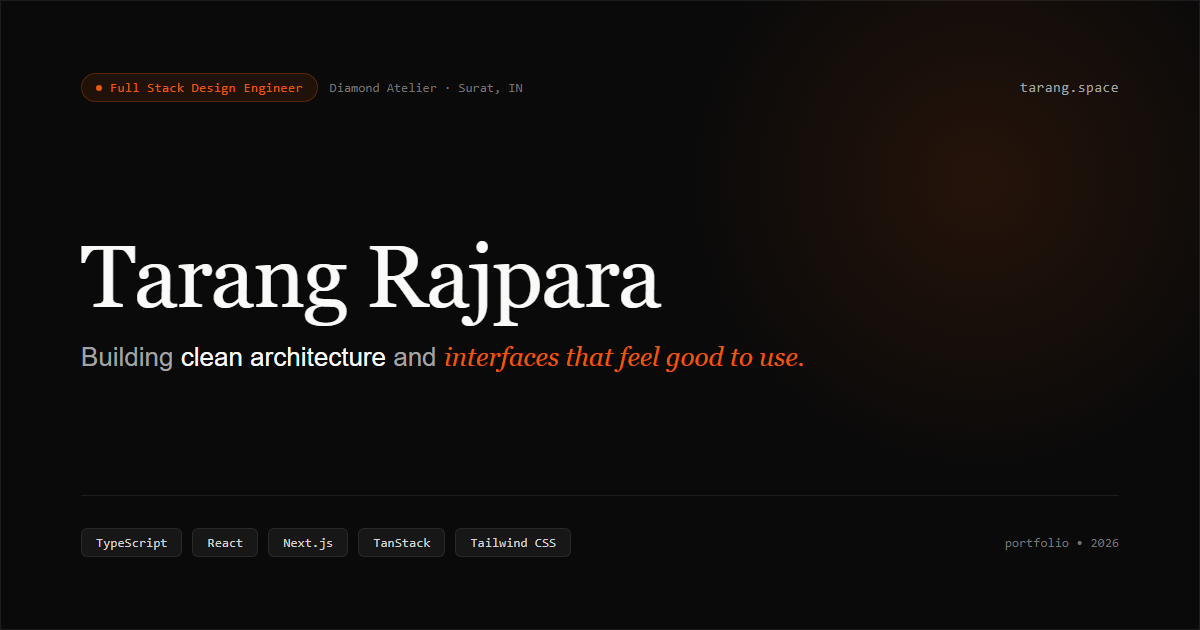
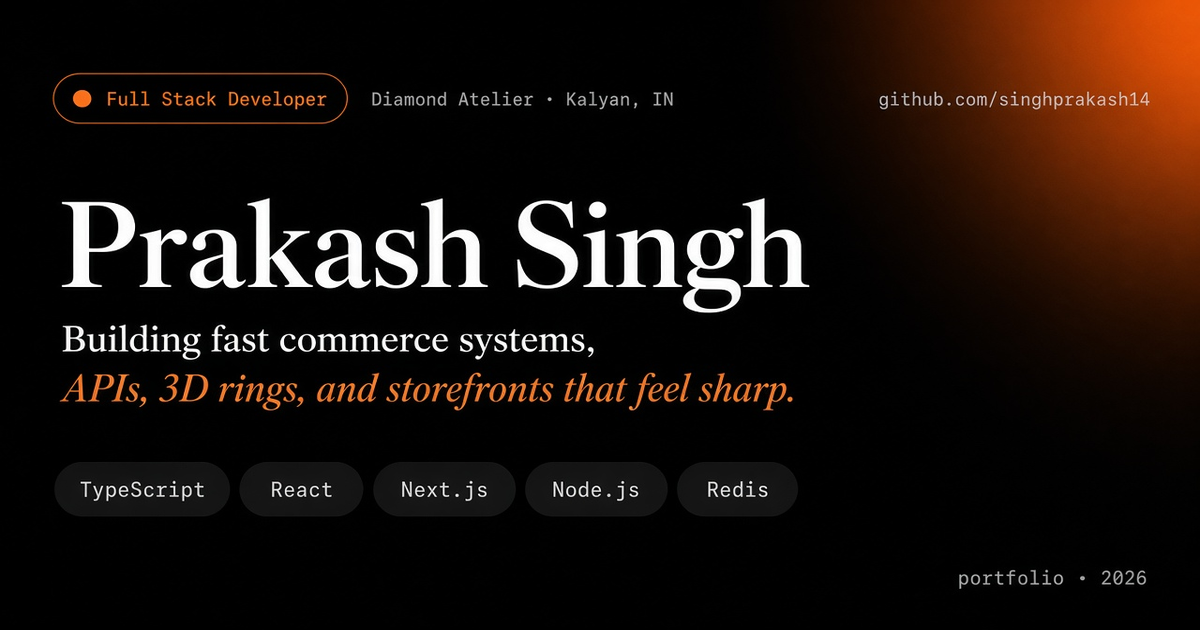
new-versio

diff --git a/src/config/env.ts b/src/config/env.ts
@@ -13,7 +13,9 @@ export const env = {
   email: import.meta.env.VITE_EMAIL || 'prakashsingh12320@gmail.com',
   githubUrl:
     import.meta.env.VITE_GITHUB_URL || 'https://github.com/singhprakash14',
-  linkedinUrl: import.meta.env.VITE_LINKEDIN_URL || '',
+  linkedinUrl:
+    import.meta.env.VITE_LINKEDIN_URL ||
+    'https://www.linkedin.com/in/prakash-singh14',
   twitterHandle: import.meta.env.VITE_TWITTER_HANDLE || '',
 
   // Cal.com Meeting Booking (optional)

diff --git a/src/config/seo.ts b/src/config/seo.ts
@@ -192,7 +192,7 @@ export const structuredData = {
           name: 'How can you contact me?',
           acceptedAnswer: {
             '@type': 'Answer',
-            text: `You can email me at ${env.email} or explore my GitHub profile at ${env.githubUrl}.`,
+            text: `You can email me at ${env.email}, connect on LinkedIn at https://www.linkedin.com/in/prakash-singh14, or explore my GitHub profile at ${env.githubUrl}.`,
           },
         },
       ],

diff --git a/src/routes/index.tsx b/src/routes/index.tsx
@@ -163,7 +163,7 @@ const FAQS = [
   },
   {
     q: 'How can I get in touch?',
-    a: `Email me at ${env.email}, call or WhatsApp ${env.phone}, or review my code on GitHub (${env.githubUrl}).`,
+    a: `Email me at ${env.email}, call or WhatsApp ${env.phone}, connect on LinkedIn (https://www.linkedin.com/in/prakash-singh14), or review my code on GitHub (${env.githubUrl}).`,
   },
 ]
 

diff --git a/PLACEHOLDERS.md b/PLACEHOLDERS.md
@@ -1,45 +1,16 @@
-# PLACEHOLDERS.md — Production Metrics & Hiring Data Checklist
+# Portfolio placeholders — Prakash Singh
 
-This document tracks every placeholder on **[diwakarsharma2216.github.io](https://diwakarsharma2216.github.io/)** that requires your real-world metrics. No numbers have been fabricated. Update these values in `src/config/timeline.ts` and `src/routes/index.tsx` as you gather verified production data.
+Track optional values still missing for production deploy.
 
----
+## Social / SEO
+- [x] LinkedIn: https://www.linkedin.com/in/prakash-singh14
+- [x] GitHub: https://github.com/singhprakash14
+- [ ] Custom domain (if not using `singhprakash14.github.io`)
+- [ ] Twitter/X handle (optional — leave empty to omit)
+- [ ] Cal.com booking link (optional)
+- [ ] Google Search Console verify after deploy
+- [ ] Refresh OG preview caches (LinkedIn/Twitter debuggers) after `og-image.png` change
 
-## 1. Diamond Atelier (Software Developer)
-*Platform: Diamond E-Commerce Platform ([diamondforest.com](https://www.diamondforest.com/))*
-
-| Placeholder | Context | Current Value / Estimate | Location in Code |
-| :--- | :--- | :--- | :--- |
-| **`[X s]`** | Production catalog load time with Redis cache enabled (cold dev was ~13s; baseline ~52s) | `~1.8s` (production cached) | `src/config/timeline.ts`, `src/routes/index.tsx` |
-| **`[N/week]`** | Developer image/content update tickets prior to headless CMS self-service | `~15/week → 0` | `src/config/timeline.ts`, `src/routes/index.tsx` |
-| **`[X%]`** | Image size reduction achieved via Sharp WebP/AVIF backend compression | `82.3%` (measured) | `src/config/timeline.ts`, `src/routes/index.tsx` |
-| **`[N orders/month]`** | Stripe checkout volume processed via cryptographically verified webhooks | `[N orders/month]` | `src/config/timeline.ts` |
-| **`[99.X%]`** | Stripe webhook idempotency and transaction success reliability rate | `99.9%` | `src/config/timeline.ts` |
-
----
-
-## 2. Empiric Infotech LLP (MERN Stack Developer)
-*Platform: WhatsApp & Booking Platform (Internal Enterprise System)*
-
-*Status: All bullets filled with real architectural achievements (atomic slot reservations, automated WAHA WhatsApp alerts, automated Stripe refunds and webhook processing) — no bracket placeholders remain.*
-
----
-
-## 3. Masai School (Associate Instructor & LMS Engineer)
-*Platform: Masai LMS Student Assessment Module*
-
-*Status: All bullets filled with real metrics (200+ students trained in JS/React/Node, 50+ mock interviews, centralized code grading module) — no bracket placeholders remain.*
-
----
-
-## 4. Hiring Logistics & Availability
-*Section: Contact & Logistics*
-
-*Status: Notice period set to `45 days (negotiable)` and English proficiency set to `Professional Working Proficiency (Fluent)` — no bracket placeholders remain.*
-
----
-
-## 5. Decision Checklist
-* [ ] **Headless CMS clarification**: Confirm whether Diamond Atelier runs on Strapi CMS or a custom-built in-house headless CMS (tracked via `// TODO` in code).
-* [ ] **Hevenly Heven repository visibility**: Confirm if `github.com/Diwakarsharma2216/overrated-chicken-3237` should remain public for recruiter review or be flagged as private.
-* [ ] **Resume PDF upload**: Drop your latest PDF into `public/resume.pdf` to replace the placeholder file.
-
+## Content
+- [ ] Personal project links (none on CV yet)
+- [ ] Confirm workplace type / location wording for Diamond Atelier if needed
